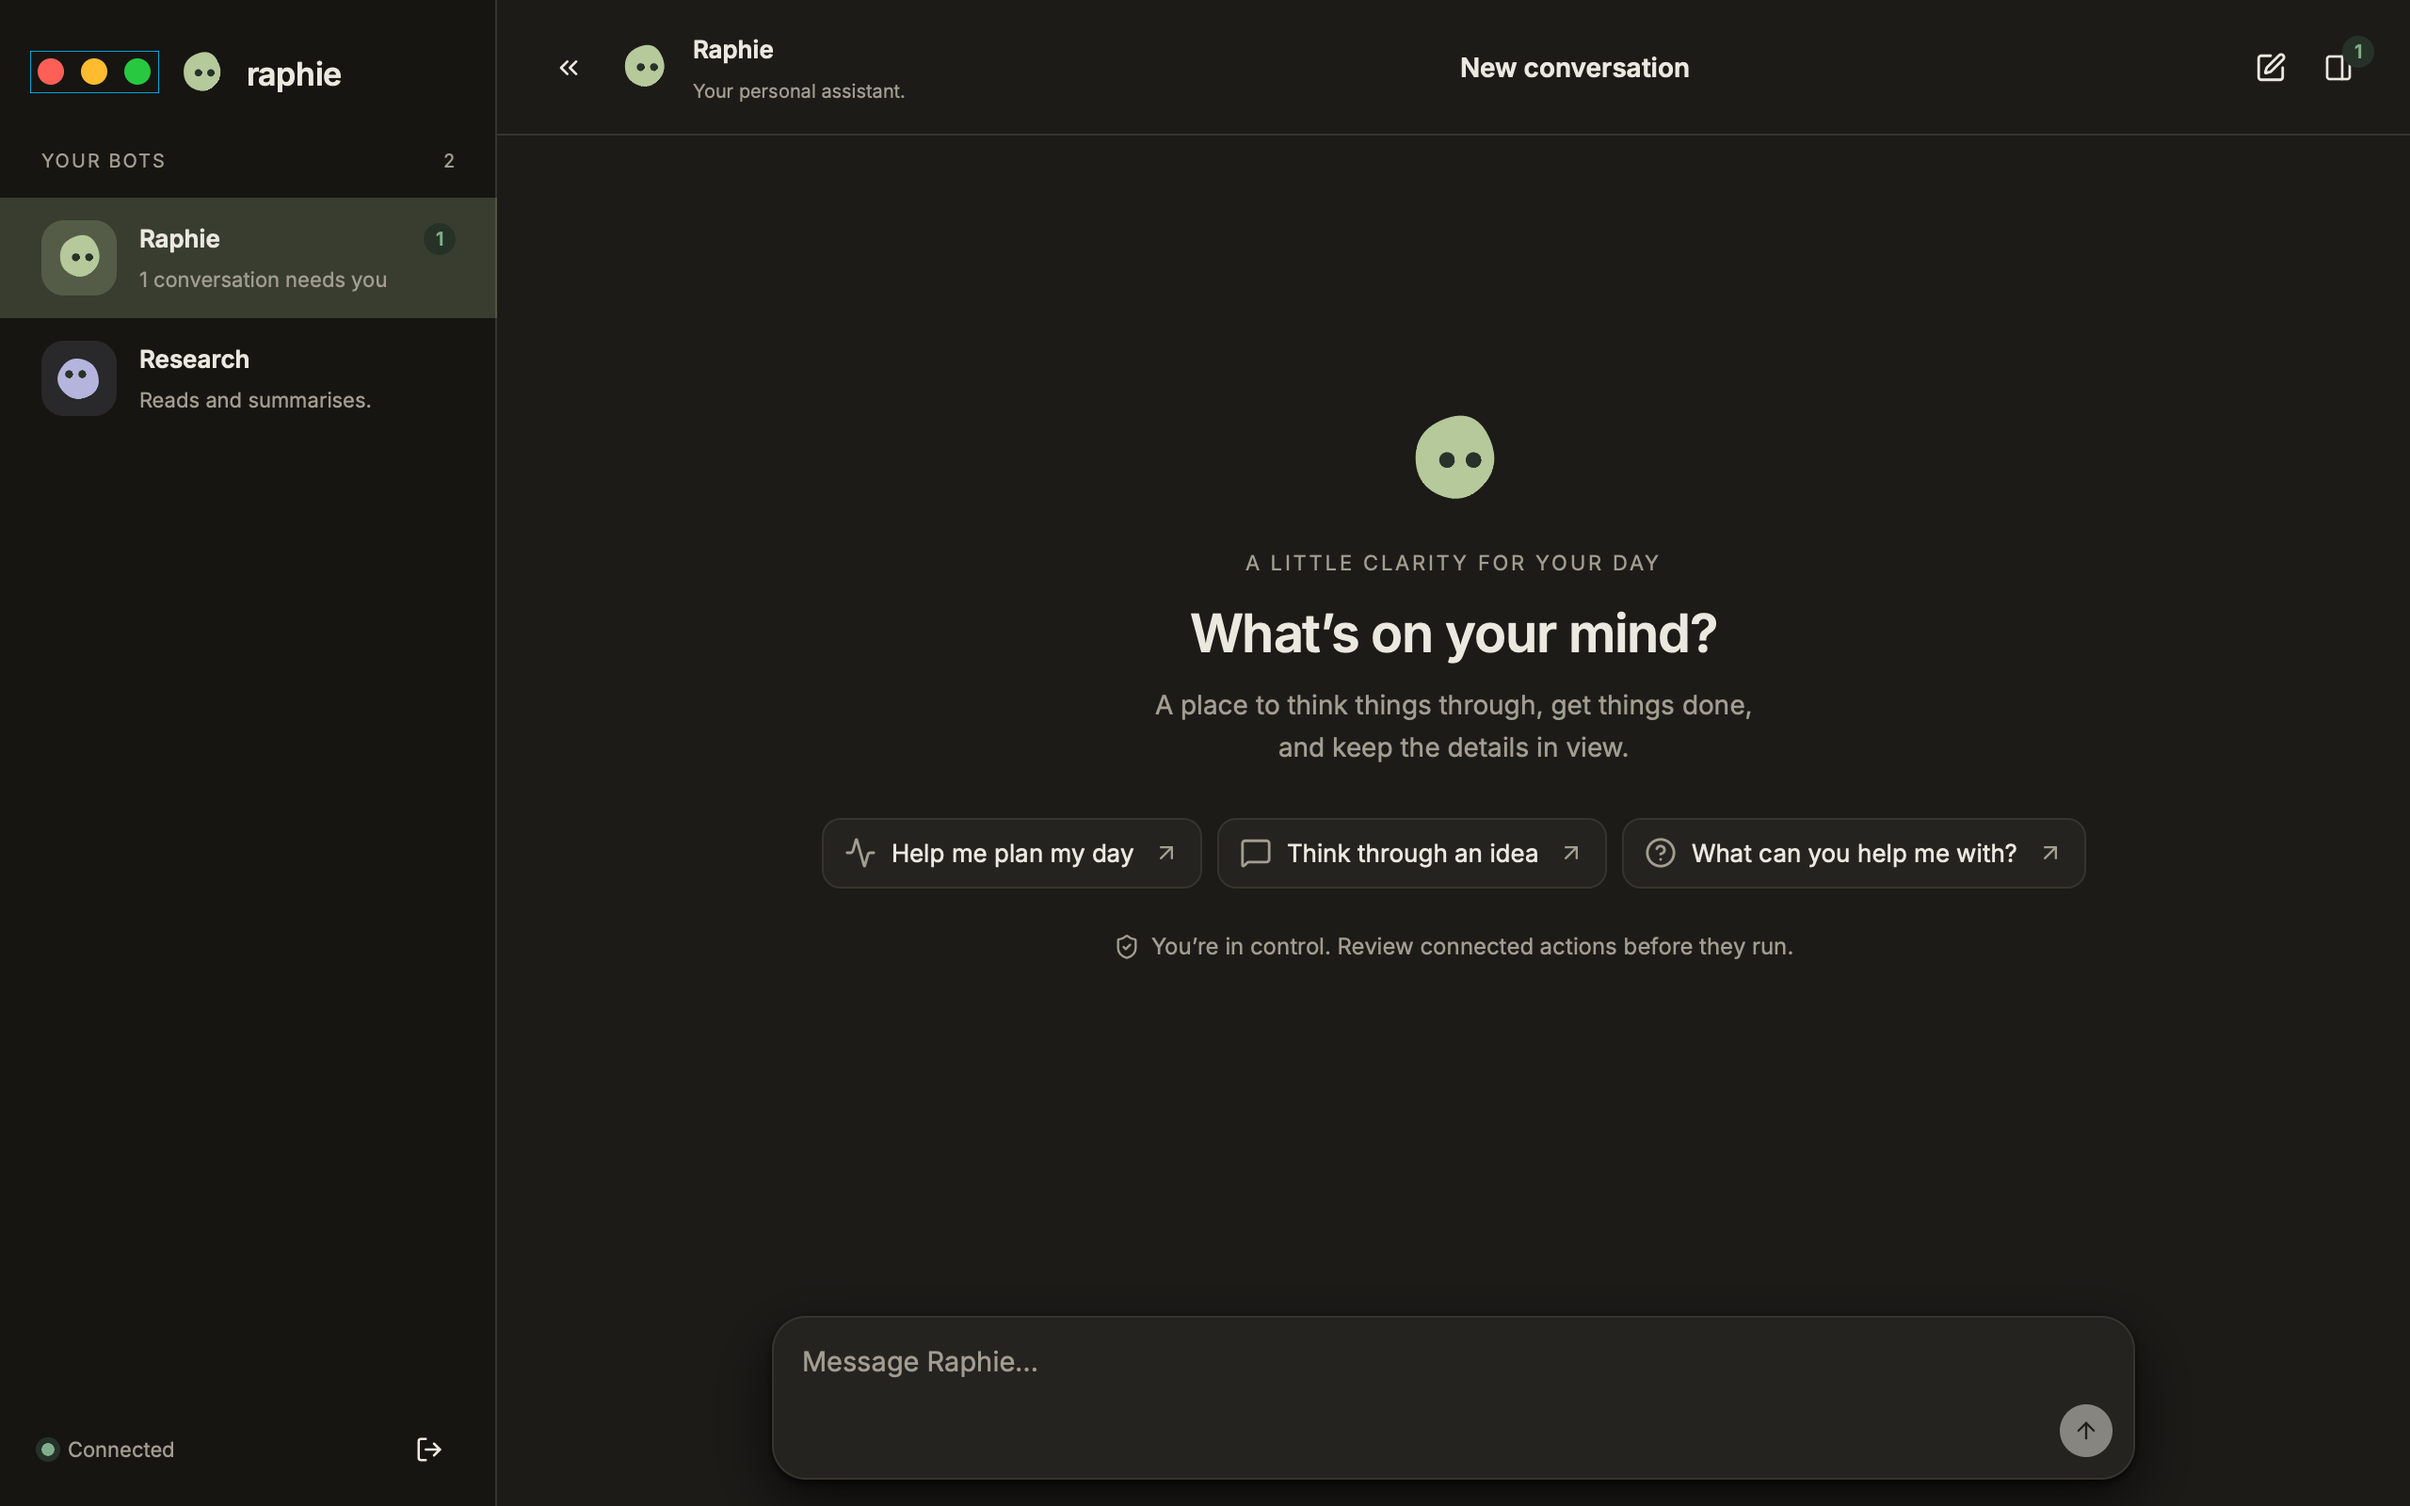
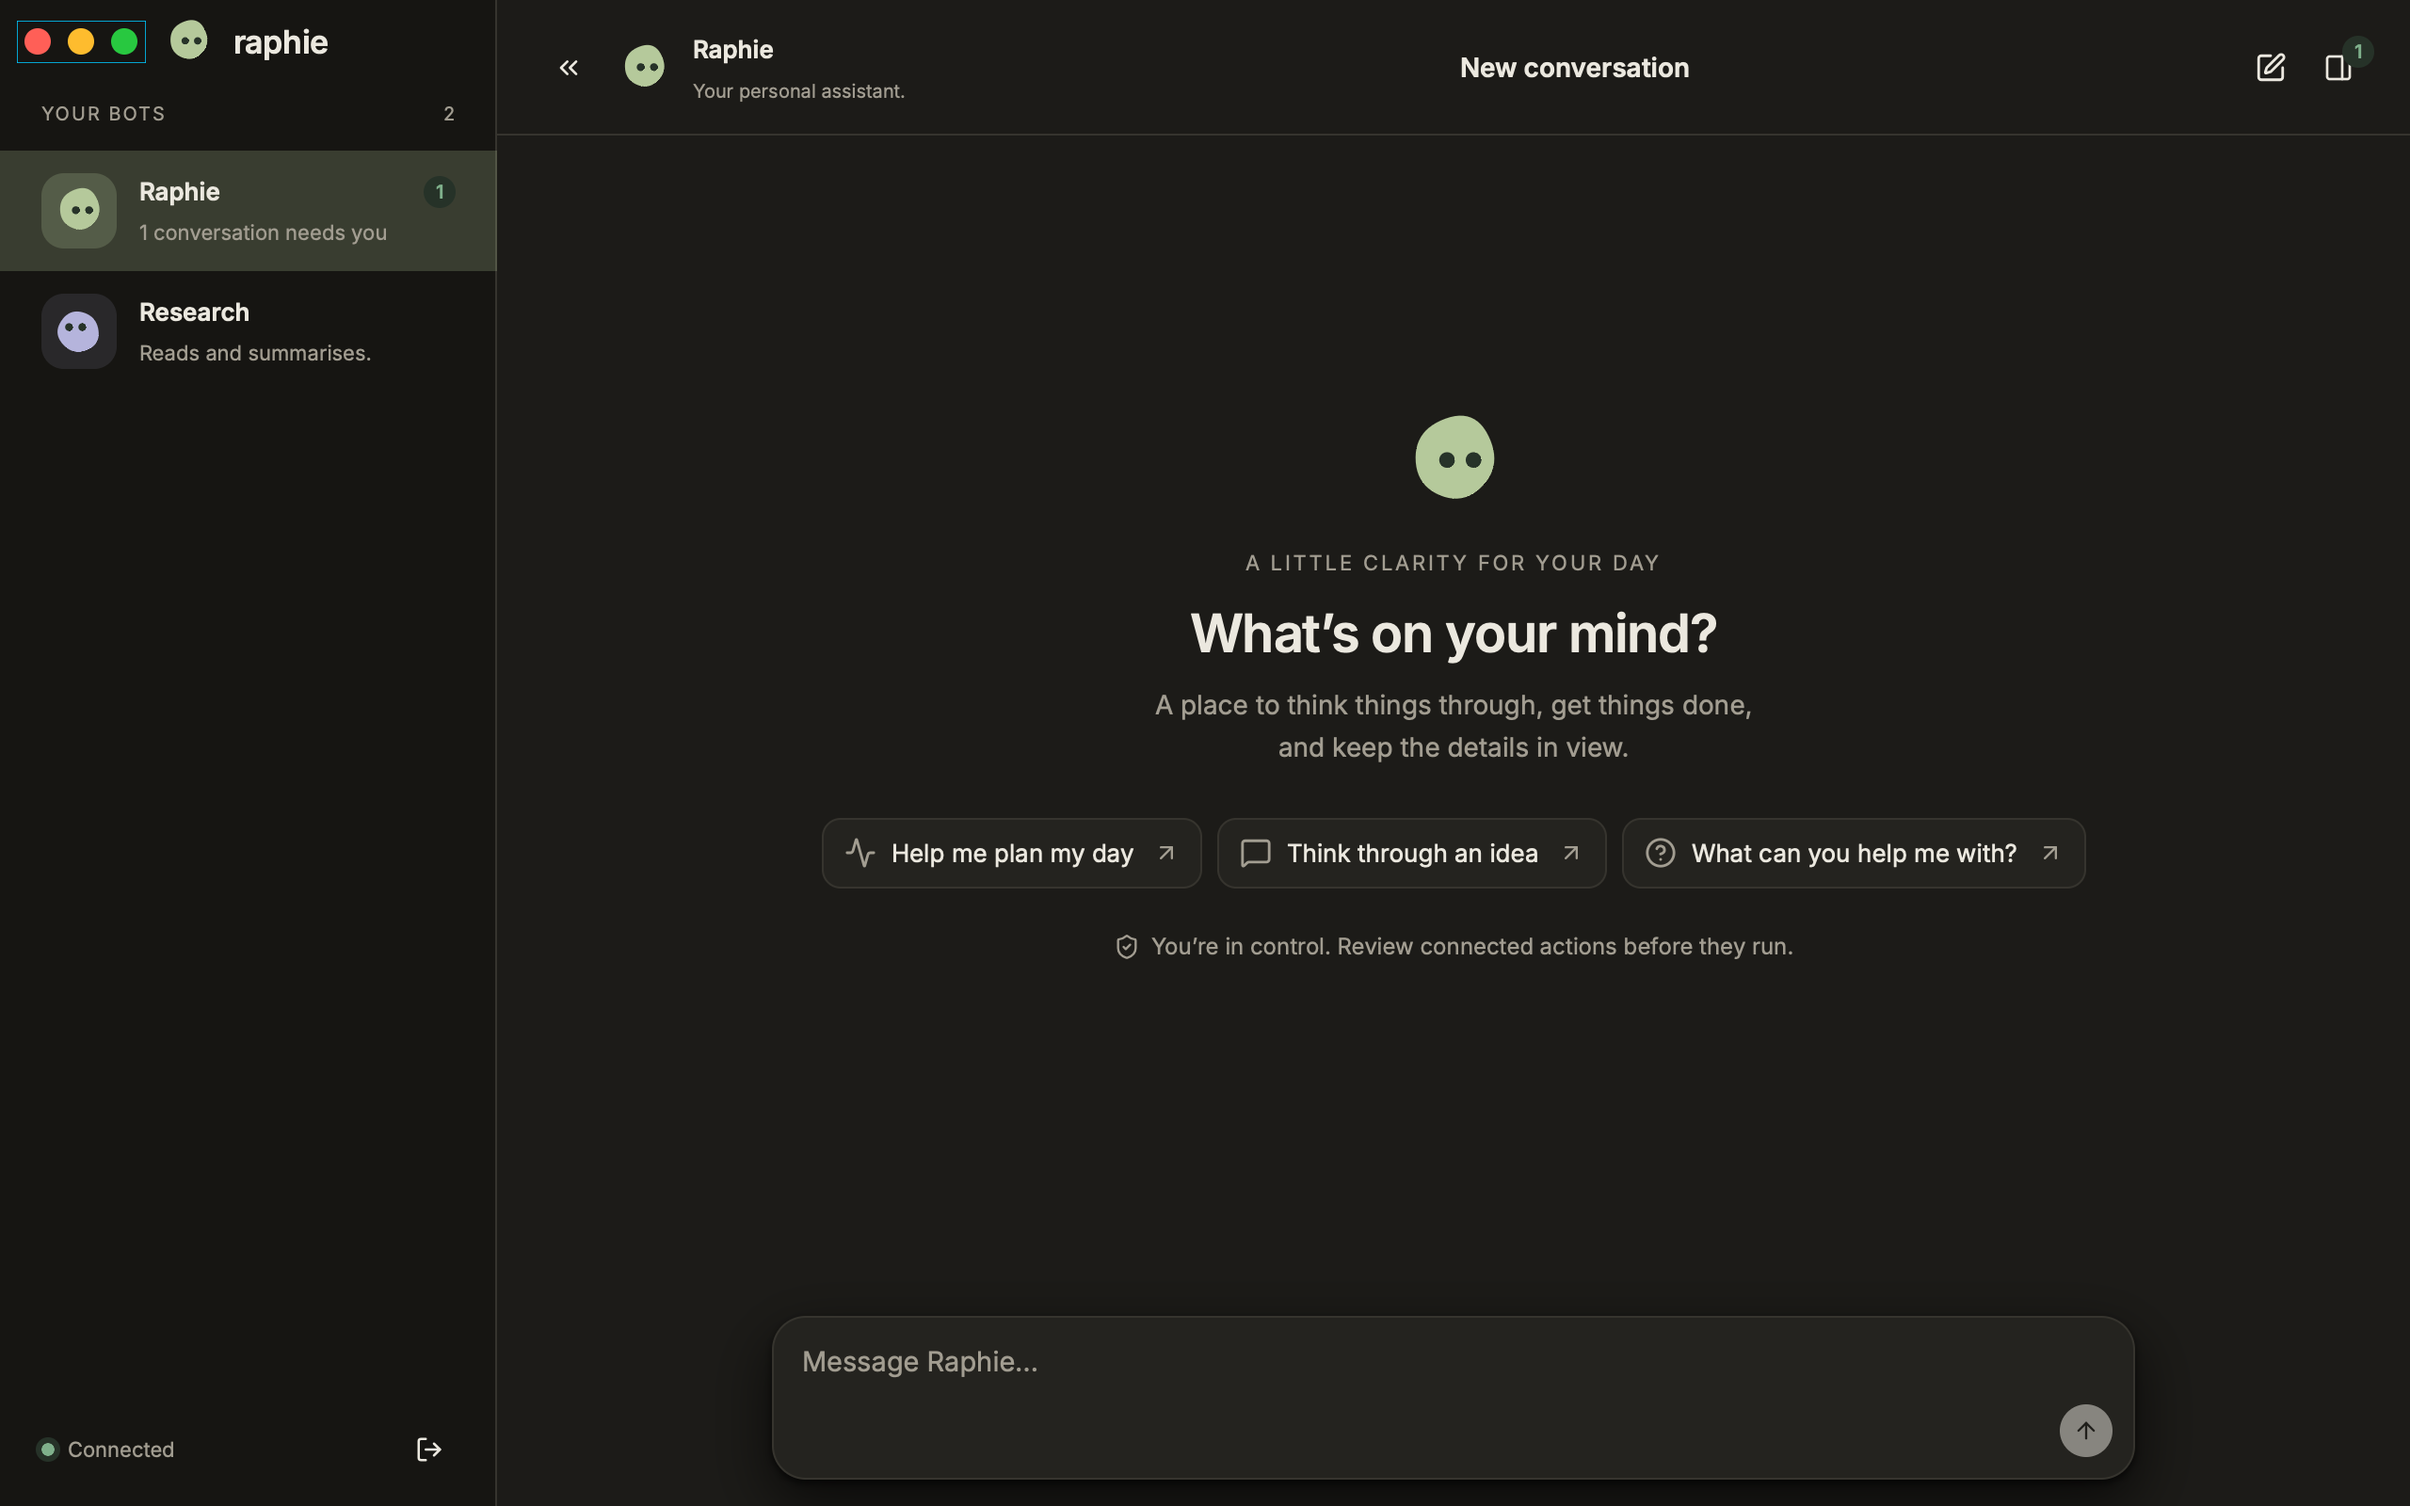
Raise the desktop brand level with the traffic lights
The lights sat 31 pt down with the brand beside them, leaving a tall empty band. They now sit near the corner as in a compact macOS title bar, and the brand row is tightened to match.

Changed region(s): [[0.0, 0.0, 0.2188, 0.2812]]

diff --git a/apps/desktop/app/src/view/roster.rs b/apps/desktop/app/src/view/roster.rs
@@ -37,13 +37,15 @@ pub fn roster(s: &Ui, look: &Look) -> El {
         // Only a right edge: `[top, right, bottom, left]` widths.
         .border_sides([0.0, 1.0, 0.0, 0.0], t.border)
         .child(
-            // The brand band also moves the window.
+            // The brand band also moves the window. It is tighter than the
+            // web's (24 above and below) so the brand sits level with the
+            // window's buttons, like a title bar.
             row()
                 .w_full()
-                .pt(24.0)
+                .pt(7.0)
                 .pl(brand_inset)
                 .pr(20.0)
-                .pb(24.0)
+                .pb(16.0)
                 .gap(9.0)
                 .center_y()
                 .window_drag()

diff --git a/apps/desktop/app/src/main.rs b/apps/desktop/app/src/main.rs
@@ -13,7 +13,9 @@ fn main() {
     // brand, which starts to their right.
     let chrome = Chrome {
         full_size_content: true,
-        traffic_lights: Some((20.0, 31.0)),
+        // Close to the corner, as a compact macOS title bar has them: the
+        // lights are 14 pt tall, so their centre is 22 pt down.
+        traffic_lights: Some((13.0, 15.0)),
         drag_regions: true,
     };
     rune::App::new(raphie_desktop::spec())

diff --git a/apps/desktop/app/src/view/sign_in.rs b/apps/desktop/app/src/view/sign_in.rs
@@ -44,7 +44,9 @@ pub fn sign_in(s: &Ui, look: &Look) -> El {
                 .w_full()
                 .pl(brand_inset)
                 .pr(35.0)
-                .py(21.0)
+                // Level with the window's buttons, like a title bar.
+                .pt(6.0)
+                .pb(21.0)
                 .gap(8.75)
                 .center_y()
                 .window_drag()

diff --git a/docs/desktop.md b/docs/desktop.md
@@ -230,7 +230,8 @@ Where the two differ on purpose:
 - Replies show no time or token line, and a run shows no elapsed time: the
   session stream this client reads does not carry activity events.
 - Numbered lists show their numbers.
-- The "raphie" brand starts to the right of the macOS traffic lights.
+- The "raphie" brand sits level with the macOS traffic lights, to their right,
+  with less space above and below it than on the web, like a compact title bar.
 
 ## Keeping contracts in sync
 
